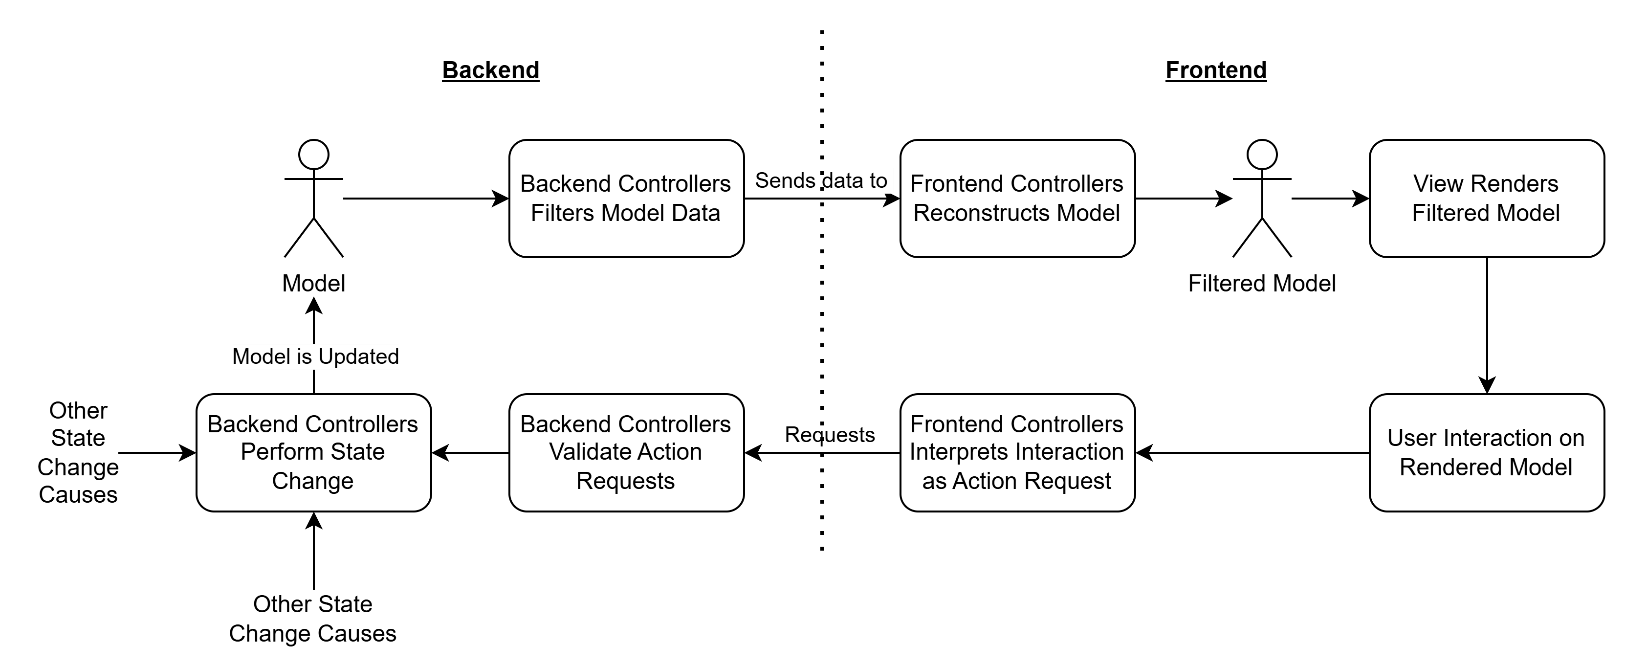
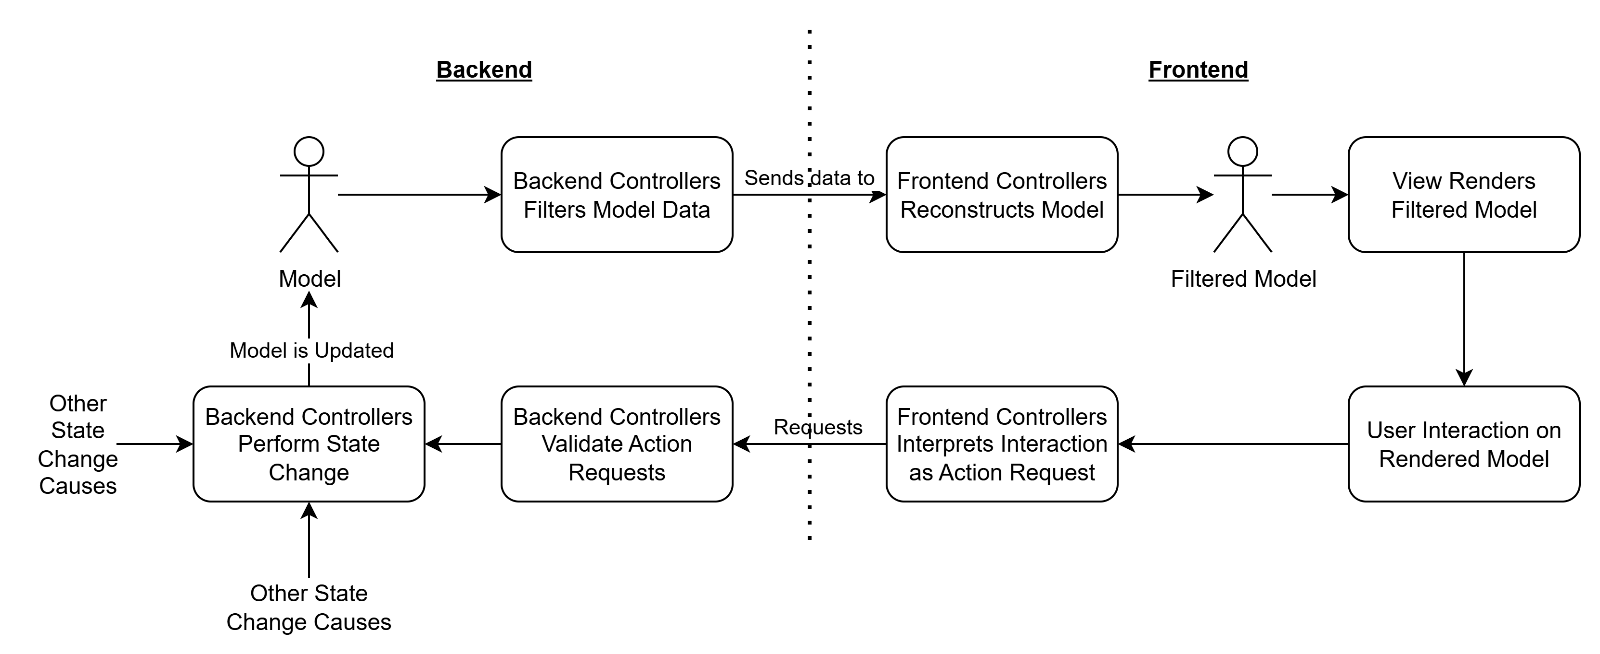
Updated Design Document.
Just corrected some diagrams concerning the Actor AI System and the Tech Stack.

diff --git a/documentation/DesignDocument.md b/documentation/DesignDocument.md
@@ -255,7 +255,7 @@ The Tech-Stack and general systems design principles used will revolve around th
 
 <u>The figure below showcases the basic monolithic tech-stack architecture</u>:
 
-<img src="design_document_media/media/image3.png" style="width:7.26772in;height:7.26772in" alt="A diagram of a software system AI-generated content may be incorrect." />
+<img src="design_document_media/media/image3.png" style="width:7.26772in;height:7.26772in" />
 
 : Monolithic Tech-Stack Architecture of the Project.
 
@@ -384,7 +384,7 @@ In this hybrid architecture, it is imperative that all model state changes occur
 For example, an enemy is rendered by the frontend application using positional data from the backend, and only information regarding the enemy’s health is provided to the player – all other information is filtered out by the backend. The player can then choose to attack the enemy, which sends an action request to the backend, and is then validated. If perhaps the enemy is too far from the player, the validation fails, and the player is informed via a return message. If the enemy is indeed in range, the attack succeeds, and a state change occurs in the backend and the original model is updated. Subsequently, the updated model’s state is filtered again (to what is allowed for the frontend) and the updated data sent back to the frontend allows the re-rendering of the enemy with less health.
 
 <figure>
-<img src="design_document_media/media/image4.png" style="width:7.26772in;height:2.73177in" alt="A black background with white rectangles AI-generated content may be incorrect." />
+<img src="design_document_media/media/image4.png" style="width:7.26772in;height:2.96998in" alt="A diagram of a flowchart AI-generated content may be incorrect." />
 <figcaption><p>: Hybrid MVC abstraction.</p></figcaption>
 </figure>
 
@@ -516,6 +516,15 @@ The following are some design considerations that have been taken into account w
 - Service vs Entity Methods: <u>Entities MUST have action methods within its definition</u>, as physiological abilities would inherently be different from decision making abilities. I.e. not all animals would have the same “perception” logic or abilities (like a giraffe could look over walls without trying) – but they could all have the same decision-making logic regardless (like if a giraffe and zebra would both look for plants to eat, despite their perception difference). Thus, <u>decision making methods would fall under service classes</u>.
 
 - Actors’ Artificial Intelligence (the game NPC kind, not generative) systems will be based on generating priorities from a set of rules and algorithms. For example, if a grass eating animal is hungry, generate \[eat grass\]. If \[find grass\] is in the priority list, never generate \[eat grass\]. If a grass eating animal perceives grass, remove \[find grass\] from the priority list.
+
+#### Activity Diagrams
+
+**<u>Actor_AI_System</u>**:
+
+<figure>
+<img src="design_document_media/media/image14.png" style="width:7.26772in;height:5.2523in" />
+<figcaption><p>: The generic Actor_AI_System.</p></figcaption>
+</figure>
 
 #### Class Diagrams
 
